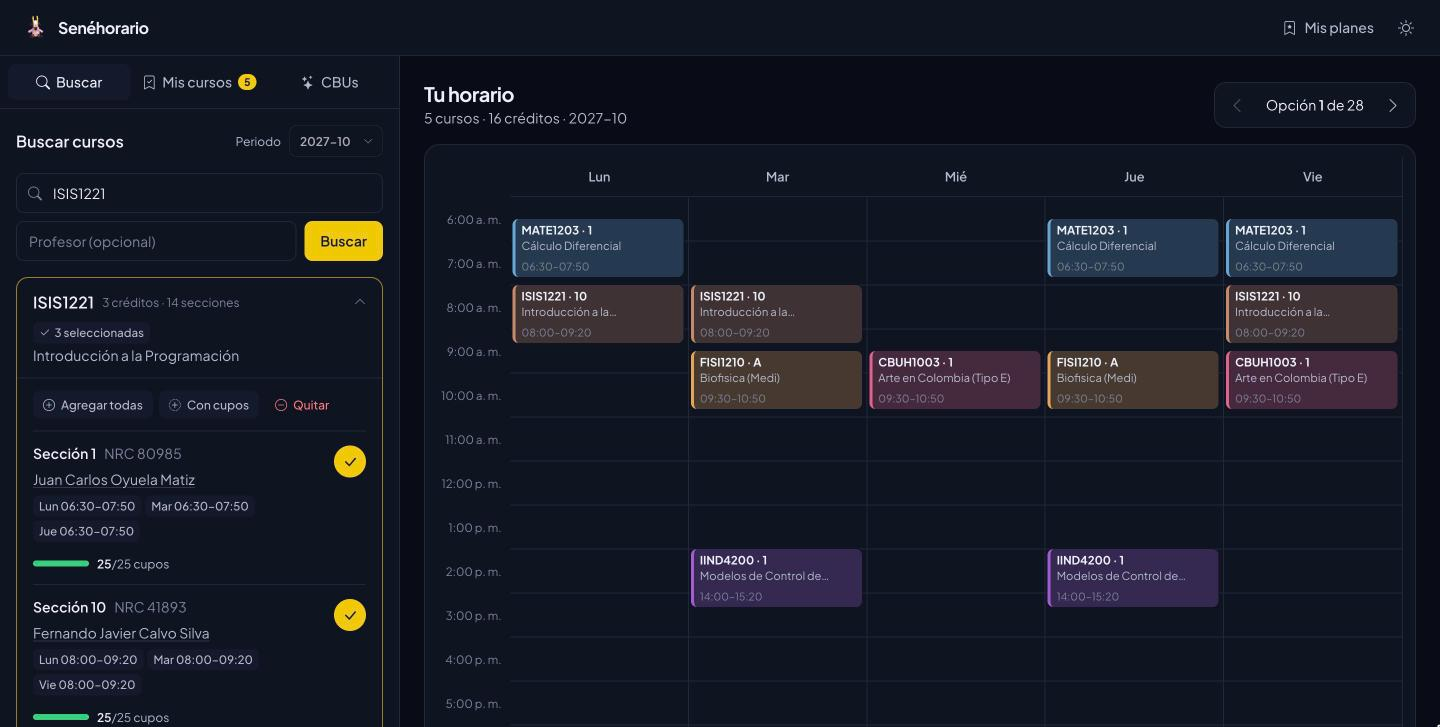
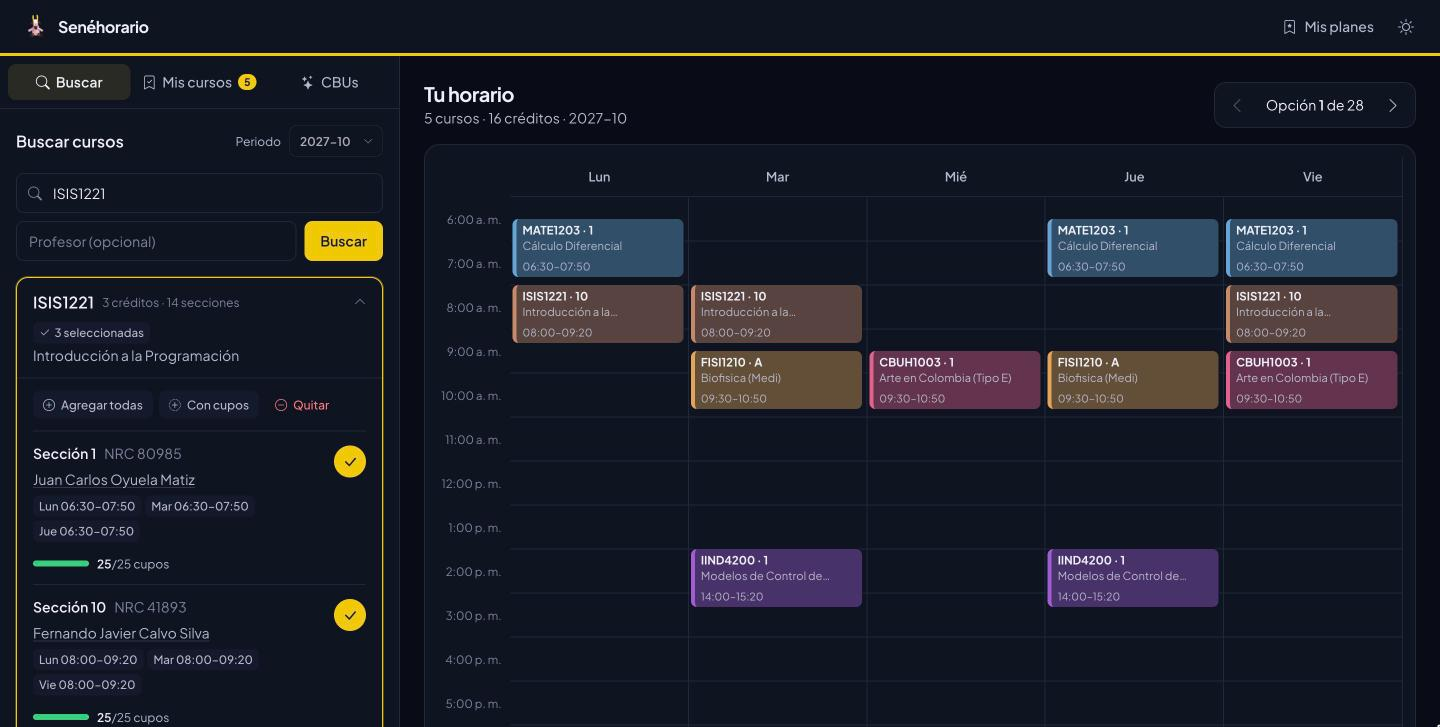
Bring back more color
- Landing: navy features band with icons in the course colors, and a
  yellow closing call to action.
- Calendar: stronger event tints and a thicker colored edge.
- Planner: yellow line under the top bar, yellow active tab, solid
  outline on selected courses, course-colored edge in Mis cursos.
- Retake the hero screenshots.

diff --git a/src/app/page.tsx b/src/app/page.tsx
@@ -1,5 +1,6 @@
 import Link from "next/link";
 import { ThemeToggle } from "@/components/ThemeToggle";
+import { COURSE_COLORS } from "@/lib/calendar-events";
 
 const REPO_URL = "https://github.com/cmolina12/senehorario";
 
@@ -172,21 +173,31 @@ export default function LandingPage() {
         </section>
 
         {/* Features */}
-        <section className="border-y border-border bg-surface py-16 lg:py-20">
+        <section className="bg-band py-16 text-white lg:py-20">
           <div className={container}>
-            <h2 className="max-w-2xl text-2xl font-bold tracking-tight sm:text-3xl">
+            <p className="text-sm font-semibold text-accent">Funcionalidades</p>
+            <h2 className="mt-2 max-w-2xl text-2xl font-bold tracking-tight text-white sm:text-3xl">
               Todo lo que necesitas para armar tu semestre
             </h2>
             <div className="mt-10 grid gap-4 sm:grid-cols-2 lg:grid-cols-4">
-              {FEATURES.map((f) => (
-                <div key={f.title} className="rounded-2xl border border-border bg-bg/40 p-5">
-                  <span className="grid size-10 place-items-center rounded-xl bg-accent-soft text-lg">
-                    <i className={`bi ${f.icon}`} aria-hidden="true"></i>
-                  </span>
-                  <h3 className="mt-4 font-semibold">{f.title}</h3>
-                  <p className="mt-1.5 text-sm leading-relaxed text-fg-secondary">{f.text}</p>
-                </div>
-              ))}
+              {FEATURES.map((f, i) => {
+                const color = COURSE_COLORS[i % COURSE_COLORS.length];
+                return (
+                  <div
+                    key={f.title}
+                    className="rounded-2xl border border-white/10 bg-white/[0.04] p-5 transition hover:border-white/20 hover:bg-white/[0.07]"
+                  >
+                    <span
+                      className="grid size-11 place-items-center rounded-xl text-lg"
+                      style={{ backgroundColor: `color-mix(in srgb, ${color} 22%, transparent)`, color }}
+                    >
+                      <i className={`bi ${f.icon}`} aria-hidden="true"></i>
+                    </span>
+                    <h3 className="mt-4 font-semibold text-white">{f.title}</h3>
+                    <p className="mt-1.5 text-sm leading-relaxed text-white/70">{f.text}</p>
+                  </div>
+                );
+              })}
             </div>
           </div>
         </section>
@@ -227,6 +238,24 @@ export default function LandingPage() {
                 </details>
               ))}
             </div>
+          </div>
+        </section>
+
+        {/* Closing call to action */}
+        <section className="bg-accent py-14 text-on-accent">
+          <div className={`${container} flex flex-col items-start justify-between gap-6 sm:flex-row sm:items-center`}>
+            <div>
+              <h2 className="text-2xl font-bold tracking-tight text-on-accent sm:text-3xl">
+                ¿Listo para armar tu semestre?
+              </h2>
+              <p className="mt-1 text-on-accent/75">Es gratis y no necesitas crear una cuenta.</p>
+            </div>
+            <Link
+              href="/planning"
+              className="inline-flex shrink-0 items-center gap-2 rounded-xl bg-[#1a1a2e] px-5 py-3 font-semibold text-white transition hover:bg-[#16213e]"
+            >
+              Comienza a planear <i className="bi bi-arrow-right" aria-hidden="true"></i>
+            </Link>
           </div>
         </section>
 

diff --git a/src/components/planner/Planner.tsx b/src/components/planner/Planner.tsx
@@ -147,7 +147,7 @@ export function Planner() {
   return (
     <div className="flex h-dvh flex-col bg-bg">
       {/* Top bar */}
-      <header className="flex h-14 shrink-0 items-center justify-between border-b border-border bg-surface px-3 sm:px-4">
+      <header className="flex h-14 shrink-0 items-center justify-between border-b-[3px] border-accent bg-surface px-3 sm:px-4">
         <Link href="/" className="flex items-center gap-2 rounded-lg px-1.5 py-1 transition hover:bg-surface-hover">
           {/* eslint-disable-next-line @next/next/no-img-element */}
           <img src="/images/peluche.png" alt="" className="size-7" />
@@ -183,7 +183,7 @@ export function Planner() {
                 aria-current={tab === t.id ? "page" : undefined}
                 className={cn(
                   "flex flex-1 items-center justify-center gap-1.5 rounded-lg px-2 py-2 text-sm font-medium whitespace-nowrap transition",
-                  tab === t.id ? "bg-surface-alt text-fg" : "text-fg-secondary hover:bg-surface-hover hover:text-fg",
+                  tab === t.id ? "bg-accent-soft font-semibold text-fg" : "text-fg-secondary hover:bg-surface-hover hover:text-fg",
                 )}
               >
                 <i className={`bi ${t.icon}`} aria-hidden="true"></i>

diff --git a/src/app/globals.css b/src/app/globals.css
@@ -29,7 +29,8 @@
   --warning: #d97706;
   --danger: #e5484d;
 
-  --event-tint: 16%;
+  --event-tint: 30%;
+  --band: #1a1a2e;
   --shadow-color: 220 30% 15%;
 }
 
@@ -56,7 +57,8 @@
   --warning: #f5a524;
   --danger: #ff7b7f;
 
-  --event-tint: 26%;
+  --event-tint: 40%;
+  --band: #121933;
   --shadow-color: 0 0% 0%;
 }
 
@@ -65,6 +67,7 @@
 
   --color-primary: var(--primary);
   --color-primary-light: var(--primary-light);
+  --color-band: var(--band);
   --color-accent: var(--accent);
   --color-accent-hover: var(--accent-hover);
   --color-accent-soft: var(--accent-soft);
@@ -183,7 +186,7 @@
   --ev: var(--accent);
   background: color-mix(in srgb, var(--ev) var(--event-tint), var(--surface)) !important;
   border: none !important;
-  border-left: 3px solid var(--ev) !important;
+  border-left: 4px solid var(--ev) !important;
   border-radius: 6px;
   box-shadow: none;
   cursor: pointer;
@@ -238,7 +241,7 @@
 .ev-time {
   margin-top: auto;
   font-size: 0.66rem;
-  color: var(--text-muted);
+  color: var(--text-secondary);
   white-space: nowrap;
 }
 

diff --git a/src/components/planner/CoursesTab.tsx b/src/components/planner/CoursesTab.tsx
@@ -72,13 +72,12 @@ export function CoursesTab({
           const meta = selection.meta[code];
           const open = openCode === code;
           return (
-            <div key={code} className="rounded-xl border border-border bg-surface">
+            <div
+              key={code}
+              className="rounded-xl border border-l-4 border-border bg-surface"
+              style={{ borderLeftColor: courseColor(codes, code) }}
+            >
               <div className="flex items-start gap-3 px-4 py-3">
-                <span
-                  className="mt-1.5 size-2.5 shrink-0 rounded-full"
-                  style={{ backgroundColor: courseColor(codes, code) }}
-                  aria-hidden="true"
-                />
                 <button
                   type="button"
                   onClick={() => setOpenCode(open ? null : code)}

diff --git a/src/components/planner/CourseCard.tsx b/src/components/planner/CourseCard.tsx
@@ -17,7 +17,7 @@ export function CourseCard({ course, expanded, onToggleExpanded, selectedCount, 
     <div
       className={cn(
         "rounded-xl border bg-surface transition",
-        selectedCount > 0 ? "border-accent/60" : "border-border",
+        selectedCount > 0 ? "border-accent ring-1 ring-accent/30" : "border-border",
       )}
     >
       <button
